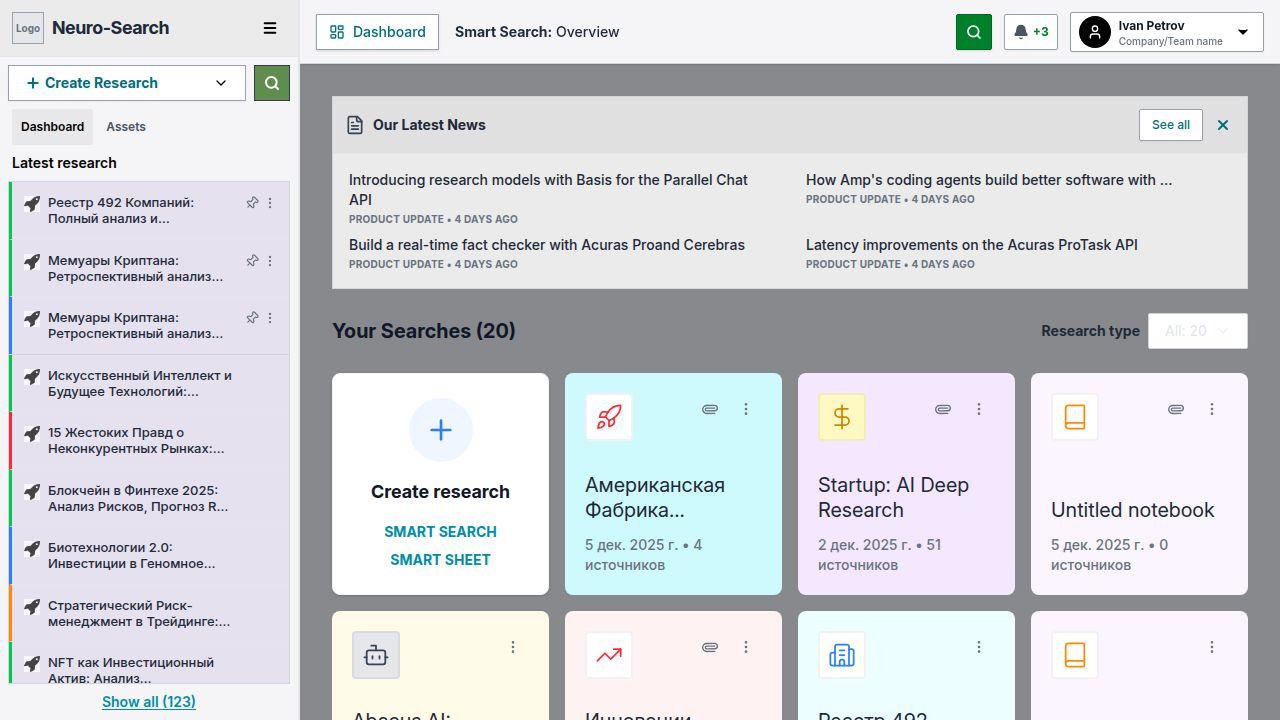
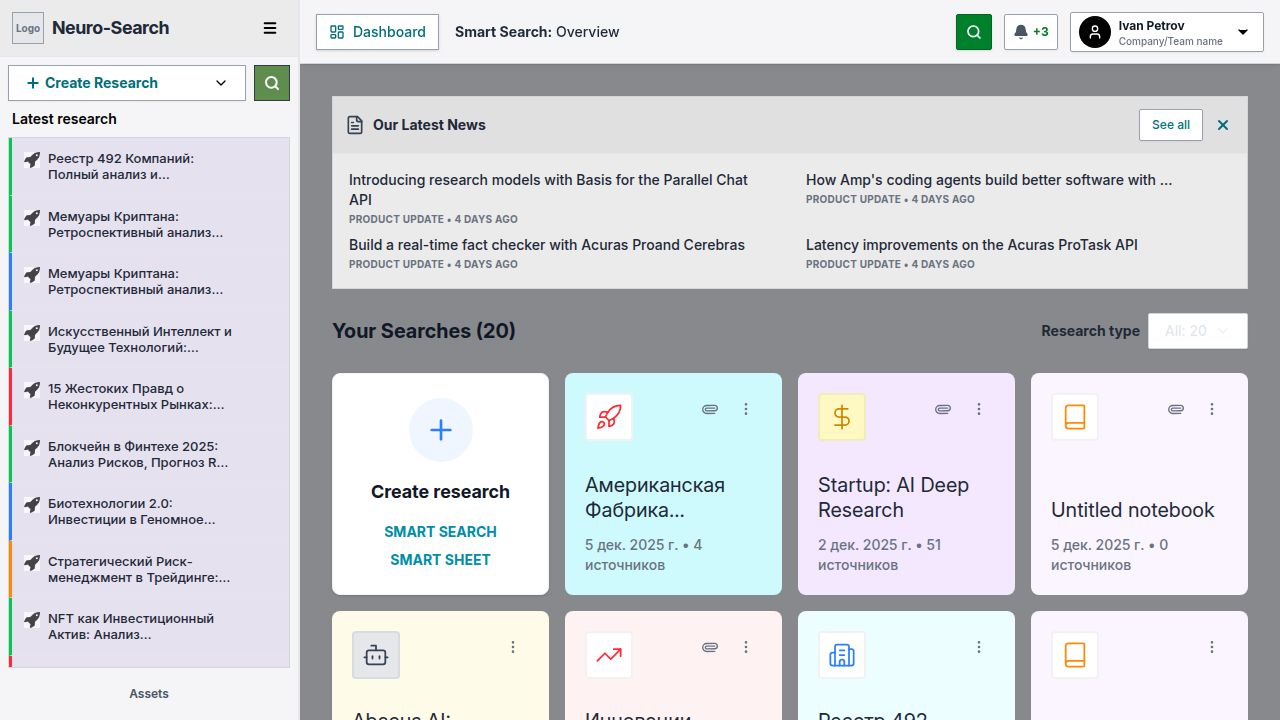
Remove pre-pinned research items from the sidebar
Modify the initial state of pinned research items to be an empty array, effectively removing the default first three pinned items from the sidebar layout.

Replit-Commit-Author: Agent
Replit-Commit-Session-Id: c900acf6-b94e-47f2-b66f-ee87c2f7ae8d
Replit-Commit-Checkpoint-Type: full_checkpoint
Replit-Commit-Event-Id: bdb47e68-2ff9-43ae-b5f7-d13c50f25066
Replit-Commit-Screenshot-Url: https://storage.googleapis.com/screenshot-production-us-central1/fe595c51-14bc-404d-b3eb-26338ea1ed0f/c900acf6-b94e-47f2-b66f-ee87c2f7ae8d/pmg12Wn
Replit-Helium-Checkpoint-Created: true

Changed region(s): [[0.0, 0.1528, 0.1875, 1.0]]

diff --git a/client/src/components/layout.tsx b/client/src/components/layout.tsx
@@ -64,7 +64,7 @@ export default function Layout({ children }: { children: React.ReactNode }) {
   };
 
   const [deletedIds, setDeletedIds] = useState<number[]>([]);
-  const [pinnedIds, setPinnedIds] = useState<number[]>([1, 2, 3]);
+  const [pinnedIds, setPinnedIds] = useState<number[]>([]);
 
   const researchItems: { id: number; title: string; status: ResearchStatus }[] = [
     { id: 1, title: "Реестр 492 Компаний: Полный анализ и стратегический обзор...", status: "success" },
